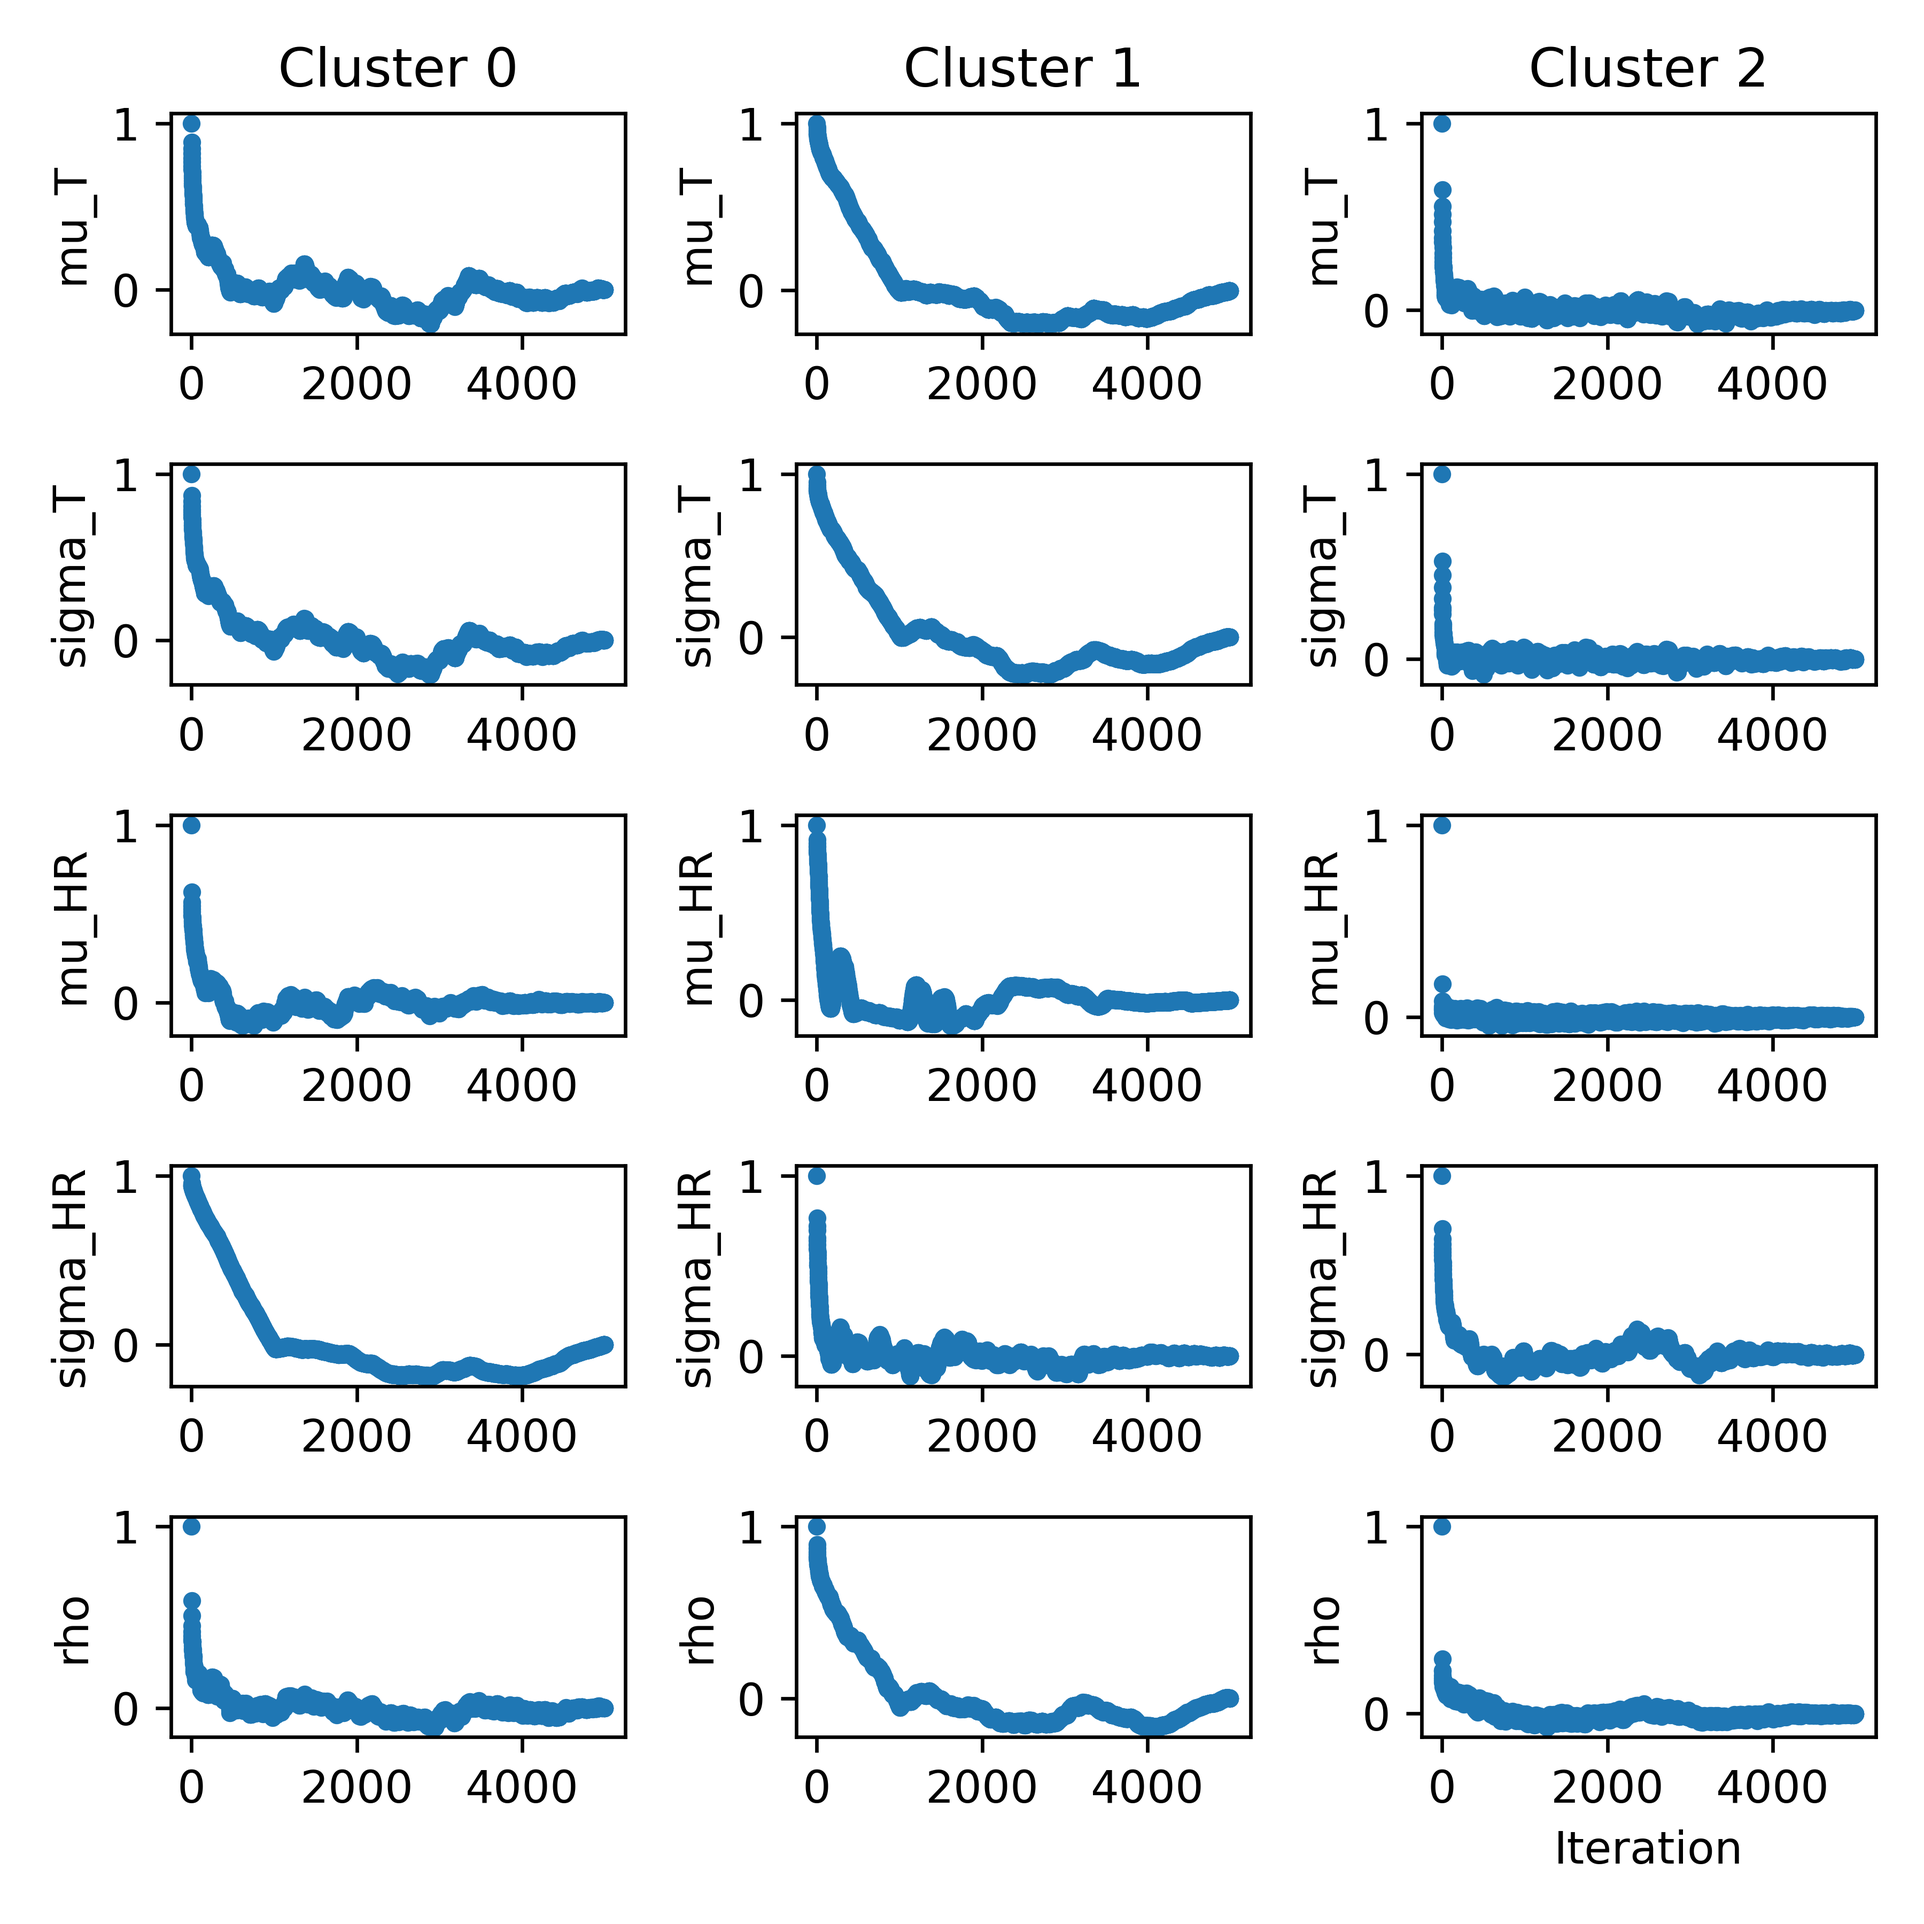
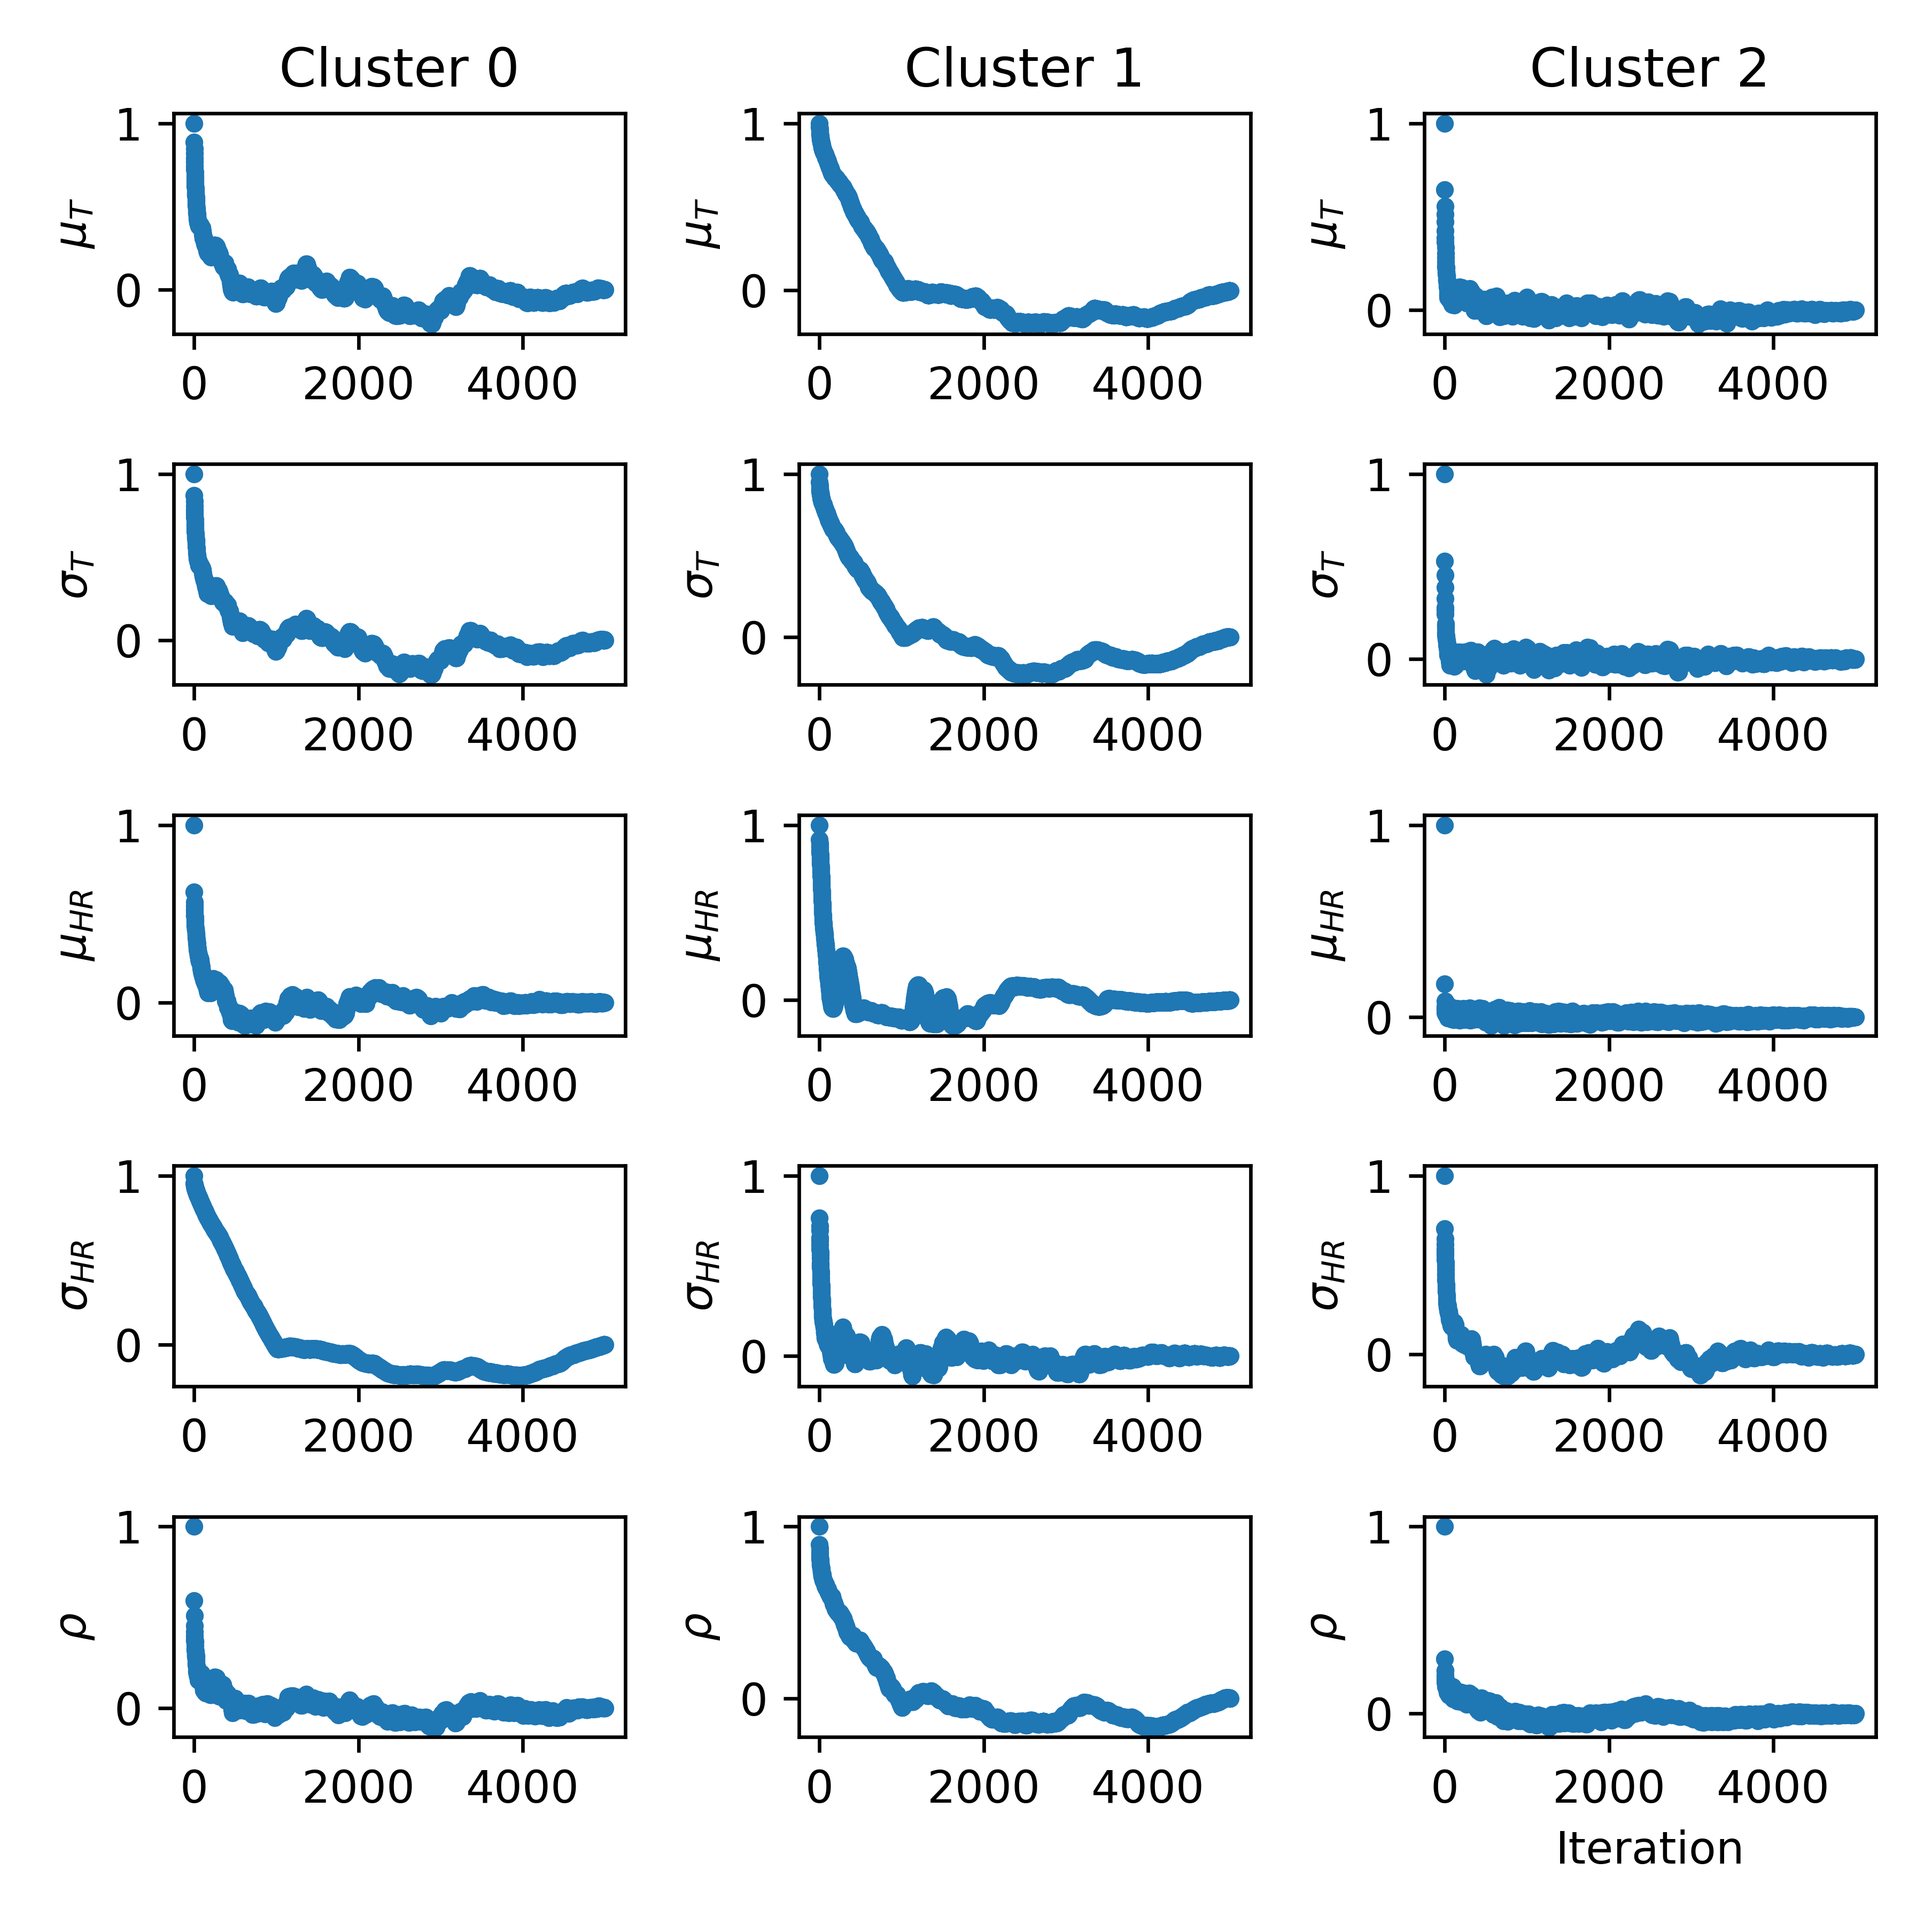
end 01/04: point 5 better images

diff --git a/GRB_class_5.py b/GRB_class_5.py
@@ -191,21 +191,67 @@ if __name__ == "__main__":
 
     xx = np.linspace(-4,7,256)              # linear space on log_T
     yy = np.linspace(-2.5, 3.5, 256)        # linear space on log_HR
+
+    # define the bins
+    bins_T = np.linspace(-4, 7, 51)
+    width_T = np.diff(bins_T)[0]
+    center_T = 0.5*(bins_T[1:] + bins_T[:-1])
+    bottom_T = np.zeros(50, dtype=int)
+
+    bins_HR = np.linspace(-2.5, 3.5, 51)
+    width_HR = np.diff(bins_HR)[0]
+    center_HR = 0.5*(bins_HR[1:] + bins_HR[:-1])
+    bottom_HR = np.zeros(50, dtype=int)
     
     # try to initialise things
     # I have to define data so that data[ii] = [log_T[ii], log_HR[ii]] and see if it runs in 2D 
     data = np.array([log_T, log_HR]).T          #transpose to have format (N_point, N_dim = 2)
-    """
-    # 3 clusters    
+    
+    fig0 = plt.figure("data: logT-logHR plane and marginals")
+    ax  = fig0.add_subplot(111)
+    axT = ax.inset_axes([0, 1.05, 1, 0.25], sharex=ax)
+    axH = ax.inset_axes([1.05, 0, 0.25, 1], sharey=ax)
+    # plot the main plane
+    ax.scatter(data[:,0], data[:,1], marker = '.', color = 'C0', label = "Data")
+    ax.set_xlabel("$\\log(T_{90})$")
+    ax.set_xlim(-4,7)
+    ax.set_ylabel("$\\log(HR)$")
+    ax.set_ylim(-2.5,3.5)
+    ax.grid(linestyle = 'dashed')
+    ax.set_axisbelow(True)
+    # plot the marginal histograms
+    count, _ = np.histogram(data[:,0], bins_T)
+    axT.bar(center_T, count, width_T, color = 'C0')
+    count, _ = np.histogram(data[:,1], bins_HR)
+    axH.barh(center_HR, count, width_HR, color = 'C0')
+    # set the right ticks and labels for histograms
+    axT.set_ylabel("Counts")
+    axH.set_xlabel("Counts")
+    axT.tick_params(axis="x", labelbottom=False)
+    axH.tick_params(axis="y", labelleft=False)
+    axT.grid(linestyle = 'dashed')
+    axT.set_axisbelow(True)
+    axH.grid(linestyle = 'dashed')
+    axH.set_axisbelow(True)
+    plt.tight_layout()
+
+    
+    # initialize sampler
+    
+    # 3 clusters
+    """    
     N_cluster = 3
     mu_0 = np.array([[-1,0],[1,0],[3.5,0]])
     cluster_color = ['g', 'purple', 'orange']
+    conf_color = ['blue', 'black', 'red']
     """
     # 2 clusters    
     N_cluster = 2
     mu_0 = np.array([[-1,0],[3.5,0]])
     cluster_color = ['g', 'orange']
+    conf_color = ['blue', 'red']
     
+
     sampler = state(N_cluster, data, mu_0=mu_0, alpha=1,rng=rng)
     _, _, mu_start, _ = sampler.posterior_parameters()
 
@@ -356,7 +402,7 @@ if __name__ == "__main__":
     plt.legend(handles=legend_elements)
     """
 
-    par_name = ["$\\mu_T$", "$\\sigma_T$", "$\\mu_\{HR\}$", "$\\sigma_\{HR\}", "\\rho"]
+    par_name = ["$\\mu_T$", "$\\sigma_T$", "$\\mu_{HR}$", "$\\sigma_{HR}$", "$\\rho$"]
     thinning = 20
     # autocorrelation for each set of parameters
     fig3 = plt.figure("Parameters autocorrelation ("+str(N_cluster)+" clusters)", figsize = (6,6))
@@ -460,18 +506,38 @@ if __name__ == "__main__":
         band = (inside_out & ~inside_in).astype(float)
         band[band == 0] = np.nan  # transparent outside
     
-        ax.contourf(xx, yy, band, levels=[0.5, 1.5], colors=[color], alpha=alpha, zorder=zorder)
+        cf = ax.contourf(xx, yy, band, levels=[0.5, 1.5], colors=[color], alpha=alpha, zorder=zorder)
+        cf.set_clip_path(ax.patch)
+       
+    bottom_T = np.zeros(center_T.shape)
+    bottom_HR = np.zeros(center_HR.shape)
 
-    conf_color = ['blue', 'red']
-    fig5b = plt.figure("Clusters in plane log_T, log_HR test")
+    # the plot
+    fig5b = plt.figure("Clusters in plane log_T log_HR")
     ax = fig5b.add_subplot(111)
+    axT = ax.inset_axes([0, 1.05, 1, 0.25], sharex=ax)
+    axH = ax.inset_axes([1.05, 0, 0.25, 1], sharey=ax)
     for k in range(N_cluster):
         data_k = sampler.state["data_"][vec_z == k]
-        ax.scatter(data_k[:,0], data_k[:,1], marker = '.', color = cluster_color[k], zorder = 1, alpha=0.25)
-
+        ax.scatter(data_k[:,0], data_k[:,1], marker = '.', color = cluster_color[k], zorder = 1, alpha=0.25, label="Cluster "+str(k))
+        count_T, _ = np.histogram(data_k[:,0], bins_T)
+        axT.bar(center_T, count_T, width_T, color = cluster_color[k], bottom=bottom_T, alpha=0.5)
+        bottom_T += count_T
+        count_HR, _ = np.histogram(data_k[:,1], bins_HR)
+        axH.barh(center_HR, count_HR, width_HR, color = cluster_color[k], left=bottom_HR, alpha=0.5)
+        bottom_HR += count_HR
+        
+        # find center of the cluster
         center = np.array([par_mu_T[k,:], par_mu_HR[k,:]]).T
         c_m = np.percentile(center, 50, axis=0)
         ax.scatter(c_m[0], c_m[1], marker = '.', color = conf_color[k], zorder = 2, alpha=1)
+        """
+        axT.plot(c_m[0], 150, marker = 'v', color = conf_color[k], zorder = 2, alpha=1)
+        axH.plot(250, c_m[1], marker = '<', color = conf_color[k], zorder = 2, alpha=1)
+        """
+        axT.axvline(c_m[0], color = conf_color[k], zorder = 2, alpha=1)
+        axH.axhline(c_m[1], color = conf_color[k], zorder = 2, alpha=1)
+        
         eig = np.zeros(center.shape)
         angle = np.zeros(center.shape[0])
         for i in range(len(par_mu_T[0,:])):
@@ -496,69 +562,46 @@ if __name__ == "__main__":
 
         # median ellipse
         ellipse = Ellipse(xy=c_m, width=width[1], height=height[1], angle=angle_m, fill=False, color=conf_color[k], alpha=1, zorder=3)
-        ax.add_patch(ellipse) 
+        ax.add_patch(ellipse)
+
+        # confidence band on the marginals, nope, too much
+        """
+        axT.axvline(c_m[0]-width[1]/2, color = conf_color[k], zorder = 2, alpha=1, linestyle='dashed') 
+        axT.axvline(c_m[0]+width[1]/2, color = conf_color[k], zorder = 2, alpha=1, linestyle='dashed') 
+        axH.axhline(c_m[1]-height[1]/2, color = conf_color[k], zorder = 2, alpha=1, linestyle='dashed') 
+        axH.axhline(c_m[1]+height[1]/2, color = conf_color[k], zorder = 2, alpha=1, linestyle='dashed') 
+        """
+    # main plane labels
     ax.set_xlabel("$\\log(T_{90})$")
     ax.set_xlim(-4,7)
     ax.set_ylabel("$\\log(HR)$")
     ax.set_ylim(-2.5,3.5)
+    ax.legend(bbox_to_anchor=(1.1, 1.05, 0.25, 0.25))
     ax.grid(linestyle = 'dashed')
     ax.set_axisbelow(True)
-    
-
-    # plane assignments and marginals
-    # define the bins
-    bins_T = np.linspace(-4, 7, 51)
-    width_T = np.diff(bins_T)[0]
-    center_T = 0.5*(bins_T[1:] + bins_T[:-1])
-    bottom_T = np.zeros(50, dtype=int)
-
-    bins_HR = np.linspace(-2.5, 3.5, 51)
-    width_HR = np.diff(bins_HR)[0]
-    center_HR = 0.5*(bins_HR[1:] + bins_HR[:-1])
-    bottom_HR = np.zeros(50, dtype=int)
-
-    # make the plot
-    fig6 = plt.figure("logT-logHR plane and marginals")
-    ax  = fig6.add_subplot(2,2,3)
-    axT = fig6.add_subplot(2,2,1, sharex = ax)
-    axH = fig6.add_subplot(2,2,4, sharey = ax)
-    for k in sampler.state["cluster_id_"]:
-        data_k = sampler.state["data_"][vec_z == k]
-        ax.scatter(data_k[:,0], data_k[:,1], marker = '.', color = cluster_color[k], label = "Cluster number "+str(k))
-        count, _ = np.histogram(data_k[:,0], bins_T)
-        axT.bar(center_T, count, width_T, color = cluster_color[k], label = "Cluster number "+str(k), bottom=bottom_T)
-        bottom_T += count
-        count, _ = np.histogram(data_k[:,1], bins_HR)
-        axH.barh(center_HR, count, width_HR, color = cluster_color[k], label = "Cluster number "+str(k), left=bottom_HR)
-        bottom_HR += count
-    ax.set_xlabel("$\\log(T_{90})$")
-    ax.set_xlim(-4,7)
-    ax.set_ylabel("$\\log(HR)$")
-    ax.set_ylim(-2.5,3.5)
-    ax.grid(linestyle = 'dashed')
-    ax.set_axisbelow(True)
+    # set the right ticks and labels for histograms
     axT.set_ylabel("Counts")
     axH.set_xlabel("Counts")
-
-    ax_leg = fig6.add_subplot(2,2,2)
-    legend_elements = []
-    for k in sampler.state["cluster_id_"]:
-        legend_elements.append(Line2D([0], [0], marker ='o',linewidth=0, color=cluster_color[k], label='Cluster '+str(k)))
-    ax_leg.legend(handles=legend_elements, loc='center')
-    ax_leg.axis('off')  # Hide axes, ticks, spines and background
-
+    axT.tick_params(axis="x", labelbottom=False)
+    axH.tick_params(axis="y", labelleft=False)
+    axT.grid(linestyle = 'dashed')
+    axT.set_axisbelow(True)
+    axH.grid(linestyle = 'dashed')
+    axH.set_axisbelow(True)
     plt.tight_layout()
 
+    
     # end of the point: show, save or close all the open figures
-
+    """
     plt.show()
     exit()
-    
+    """
     path = main_dir+"\\Results\\5\\"+str(N_cluster)+"_step_"+str(n_step)
     # Check if the results dir exists
     if not os.path.exists(path):
         os.mkdir(path)
     
+    fig0.savefig(main_dir+"\\Results\\Data_T_HR_plane.png", dpi = 600)
     fig1.savefig(path+"\\Assignments_start_end.png", dpi = 600)
     fig2.savefig(path+"\\Joint_probability.png", dpi = 600)
     fig2b.savefig(path+"\\Joint_probability_zoom.png", dpi = 600)
@@ -570,7 +613,6 @@ if __name__ == "__main__":
         fig_hist_par_2.savefig(path+"\\Parameters_hist_2.png", dpi = 600)
 
     fig5b.savefig(path+"\\Plane_confidence.png", dpi = 600)
-    fig6.savefig(path+"\\Plane_and_marginal.png", dpi = 600)
 
     header = "par_val d_par_plus d_par_minus for [mu_T, sigma_T, mu_HR, sigma_HR, rho]"
     np.savetxt(path+"\\parameters_values_0.txt", np.array([par_val[0], d_par_plus[0], d_par_minus[0]]).T, header=header)
